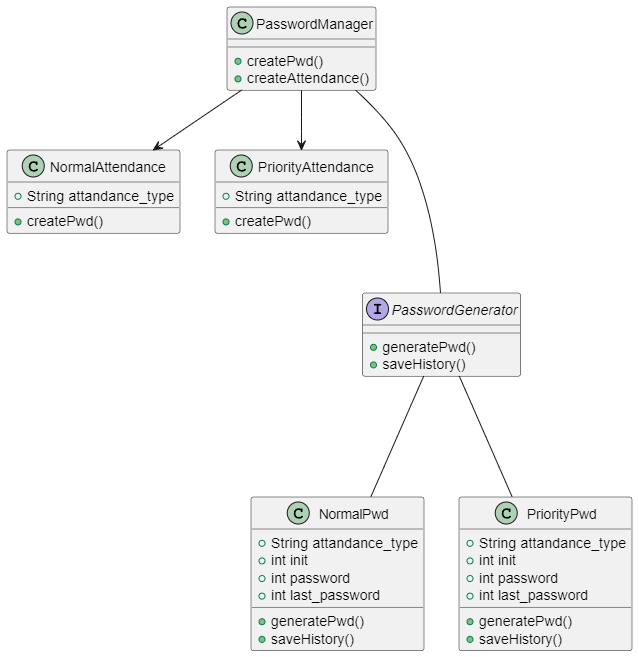
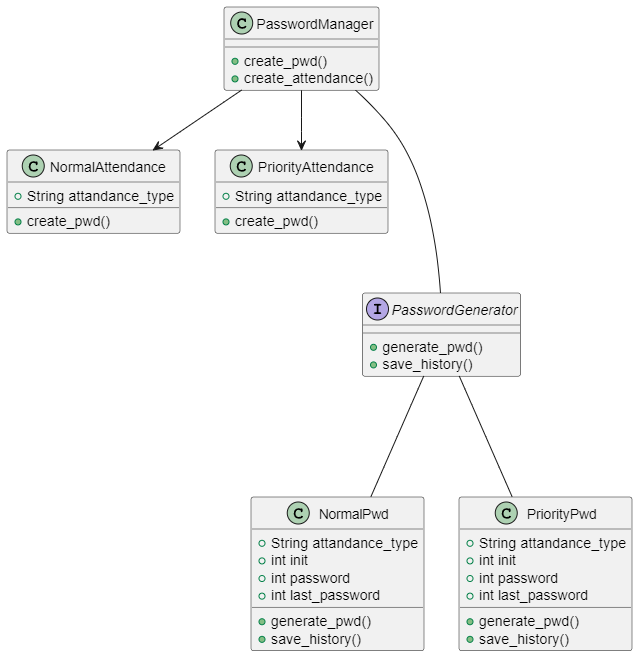
updates to PEP8 #3

diff --git a/readme.md b/readme.md
@@ -1,3 +1,3 @@
 ## Schema UML utilizando o Factory Method
 
-![Schema Factory Method](Shema.png)
+![Schema Factory Method](Schema.png)
